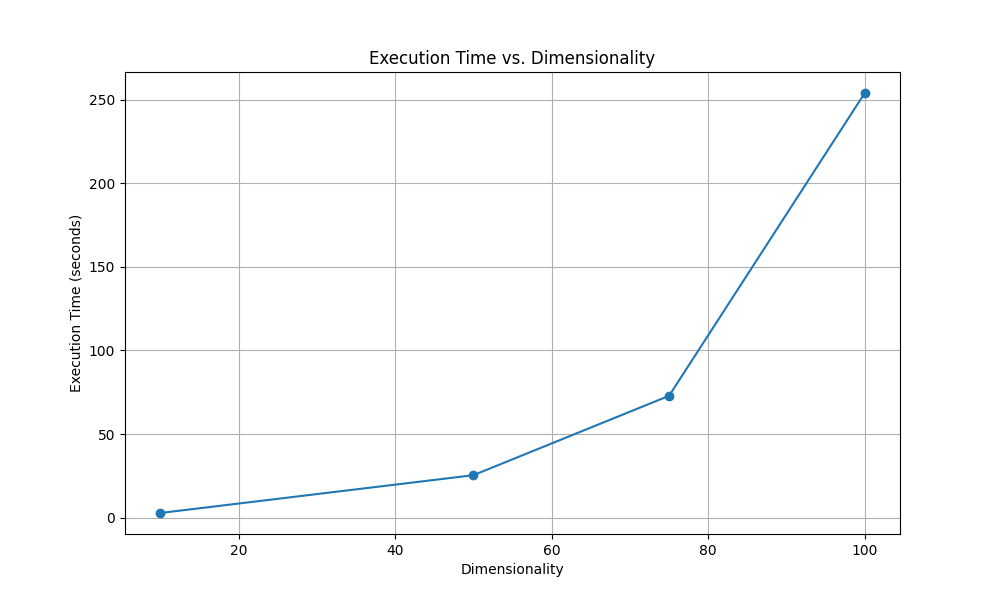
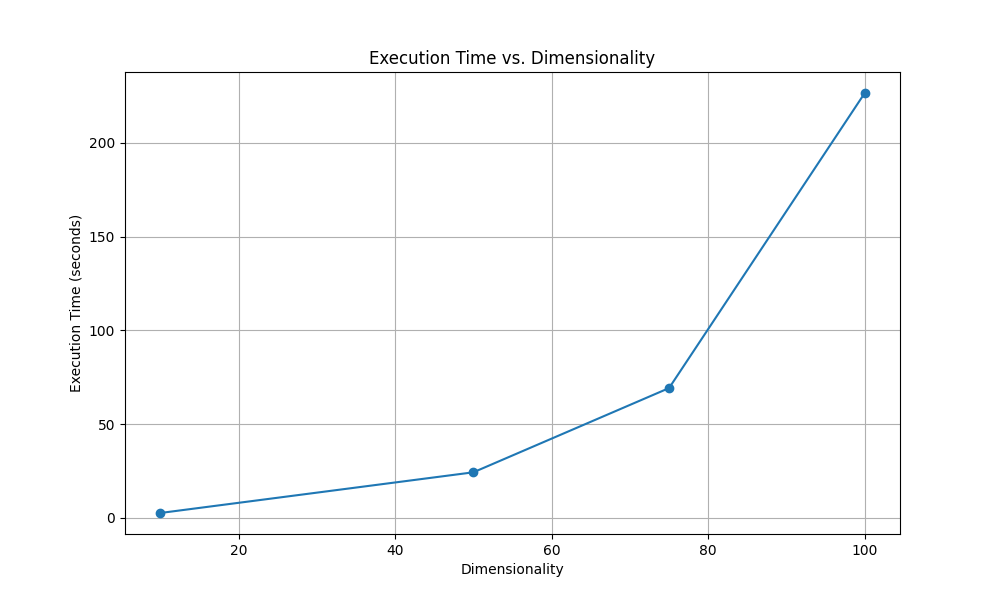
feature: added parallelized problem 3

diff --git a/obj3/main.py b/obj3/main.py
@@ -5,12 +5,13 @@ import matplotlib.pyplot as plt
 import cProfile
 import pstats
 import io
+import multiprocessing as mp
 
 ############################################################################
 
 # Function
-def target_function():
-    return
+def target_function(x):
+    return np.sum(x**2)
 
 ############################################################################
 
@@ -128,7 +129,7 @@ def improve_position(position, updt_position, min_values, max_values, target_fun
 ############################################################################
 
 # Function: iGWO
-def improved_grey_wolf_optimizer(pack_size = 25, min_values = [-100,-100], max_values = [100,100], iterations = 500, target_function = target_function, verbose = True, start_init = None, target_value = None):   
+def improved_grey_wolf_optimizer(pack_size = 25, min_values = [-100,-100], max_values = [100,100], iterations = 500, target_function = target_function, verbose = False, start_init = None, target_value = None):   
     alpha    = alpha_position(min_values, max_values, target_function)
     beta     = beta_position (min_values, max_values, target_function)
     delta    = delta_position(min_values, max_values, target_function)
@@ -150,6 +151,32 @@ def improved_grey_wolf_optimizer(pack_size = 25, min_values = [-100,-100], max_v
             count = count + 1       
     return alpha
 
+def parallel_i_gwo(pack_size = 25, min_values = [-100,-100], max_values = [100,100], iterations = 500, target_function = target_function, verbose = False, start_init = None, target_value = None):
+    threshold = 50
+    
+    if (len(min_values) > threshold):
+        num_processes = mp.cpu_count()
+        pool = mp.Pool(processes=num_processes)
+        
+        print(f"Running {num_processes} processes")
+        
+        results = [
+            pool.apply_async(improved_grey_wolf_optimizer, args=(iterations // num_processes,))
+            for _ in range(num_processes)
+        ]
+        pool.close()
+        pool.join()
+        
+        solutions = [result.get() for result in results if result.get() is not None]
+        if solutions:
+            best_solution = min(solutions, key=lambda x: x[-1])
+        else:
+            best_solution = improved_grey_wolf_optimizer(pack_size, min_values, max_values, iterations, target_function, verbose, start_init, target_value)
+        
+        return best_solution
+    else:
+        return improved_grey_wolf_optimizer(pack_size, min_values, max_values, iterations, target_function, verbose, start_init, target_value)
+
 ############################################################################
 # Define a high-dimensional target function
 def high_dimensional_target_function(x):
@@ -162,7 +189,7 @@ def simulate_scalability(dimensions, pack_size, iterations):
 
     # Measure execution time
     start_time = time.time()
-    result = improved_grey_wolf_optimizer(
+    result = parallel_i_gwo(
         pack_size=pack_size,
         min_values=min_values,
         max_values=max_values,
@@ -180,52 +207,60 @@ def simulate_scalability(dimensions, pack_size, iterations):
     
     return execution_time
 
-# Test cases
-test_cases = [
-    (10, 20, 1000),    # Low dimensionality, small population
-    (50, 40, 1000),  # Medium dimensionality, medium population
-    (75, 80, 1000),# High dimensionality, large population
-    (100, 200, 1000)# Very high dimensionality, very large population
-]
 
-# Store results
-execution_times = []
+def main():
+    # Test cases
+    test_cases = [
+        (10, 20, 1000),    # Low dimensionality, small population
+        (50, 40, 1000),  # Medium dimensionality, medium population
+        (75, 80, 1000),# High dimensionality, large population
+        (100, 200, 1000),# Very high dimensionality, very large population
+        
+        # (1000, 2000, 1000), # Very high dimensionality, very large population
+        # (10000, 20000, 1000) # Very high dimensionality, very large population
+    ]
 
-# Run simulations
-for i, (dimensions, pack_size, iterations) in enumerate(test_cases, start=1):
-    print(f"Running Test Case {i}/{len(test_cases)}: Dimensions={dimensions}, Pack Size={pack_size}, Iterations={iterations}")
-    
-    # Profile the function and capture the output
-    pr = cProfile.Profile()
-    pr.enable()
-    simulate_scalability(dimensions, pack_size, iterations)
-    pr.disable()
-    
-    # Create a stream to capture the profiling stats
-    s = io.StringIO()
-    ps = pstats.Stats(pr, stream=s).sort_stats('cumulative')
-    ps.print_stats(10)  # Print the top 10 functions that took the longest
-    
-    # Display the profiling results
-    print(s.getvalue())
+    # Store results
+    execution_times = []
 
-    # Store execution time
-    execution_time = simulate_scalability(dimensions, pack_size, iterations)
-    execution_times.append((dimensions, pack_size, execution_time))
+    # Run simulations
+    for i, (dimensions, pack_size, iterations) in enumerate(test_cases, start=1):
+        print(f"Running Test Case {i}/{len(test_cases)}: Dimensions={dimensions}, Pack Size={pack_size}, Iterations={iterations}")
+        
+        # Profile the function and capture the output
+        pr = cProfile.Profile()
+        pr.enable()
+        simulate_scalability(dimensions, pack_size, iterations)
+        pr.disable()
+        
+        # Create a stream to capture the profiling stats
+        s = io.StringIO()
+        ps = pstats.Stats(pr, stream=s).sort_stats('cumulative')
+        ps.print_stats(10)  # Print the top 10 functions that took the longest
+        
+        # Display the profiling results
+        print(s.getvalue())
 
-# Plot results
-if execution_times:  # Ensure there is data to plot
-    dimensions, pack_sizes, times = zip(*execution_times)
+        # Store execution time
+        execution_time = simulate_scalability(dimensions, pack_size, iterations)
+        execution_times.append((dimensions, pack_size, execution_time))
 
-    plt.figure(figsize=(10, 6))
-    plt.plot(dimensions, times, marker='o')
-    plt.title('Execution Time vs. Dimensionality')
-    plt.xlabel('Dimensionality')
-    plt.ylabel('Execution Time (seconds)')
-    plt.grid(True)
+    # Plot results
+    if execution_times:  # Ensure there is data to plot
+        dimensions, pack_sizes, times = zip(*execution_times)
 
-    # Ensure the plot is shown
-    # plt.show()
-    plt.savefig('obj3/parallel_execution_time_plot.png')
-else:
-    print("No execution times to plot.")
+        plt.figure(figsize=(10, 6))
+        plt.plot(dimensions, times, marker='o')
+        plt.title('Execution Time vs. Dimensionality')
+        plt.xlabel('Dimensionality')
+        plt.ylabel('Execution Time (seconds)')
+        plt.grid(True)
+
+        # Ensure the plot is shown
+        # plt.show()
+        plt.savefig('obj3/parallel_execution_time_plot.png')
+    else:
+        print("No execution times to plot.")
+
+if __name__ == "__main__":
+    main()
